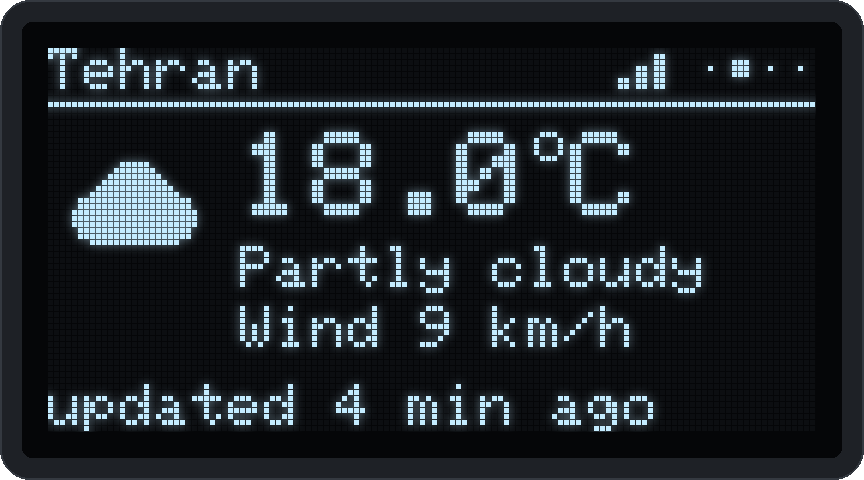
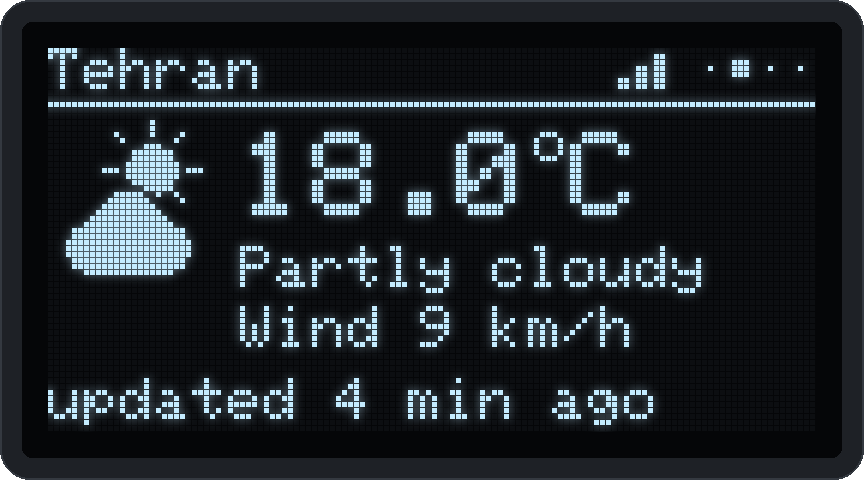
Update the host renderer for the new settings and redraw the screen images

diff --git a/tools/render/host/main.cpp b/tools/render/host/main.cpp
@@ -9,16 +9,16 @@
 
 #include "config.h"
 #include "screens.h"
+#include "settings.h"
 
 // ---------- Host replacements for the few Arduino/firmware functions used ----------
 
 static unsigned long gNowMs = 0;
 unsigned long millis() { return gNowMs; }
 
-// On the ESP32 this checks the GITHUB_TOKEN compiled in from secrets.h
-// (github.cpp). The renderer flips it to draw both GitHub states.
-static bool gHasToken = true;
-bool githubHasToken() { return gHasToken; }
+// On the ESP32, settings.cpp defines this and fills it from flash. Here it
+// keeps the defaults from config.h (GitHub user A2M33, Wokwi-GUEST).
+Settings settings;
 
 // ---------- Output ----------
 
@@ -111,6 +111,7 @@ int main(int argc, char** argv) {
   weather.tempC = 18.0f;
   weather.windKmh = 9.0f;
   weather.code = 2;
+  strlcpy(weather.place, "Tehran", sizeof(weather.place));  // the city the IP lookup would find
   weather.updatedAtMs = gNowMs - 4 * minute;
   status.screen = SCREEN_WEATHER;
   drawWeatherScreen(display, status, weather, gNowMs);
@@ -131,15 +132,12 @@ int main(int argc, char** argv) {
   fillGithub(github);
   github.updatedAtMs = gNowMs - 12 * minute;
   status.screen = SCREEN_GITHUB;
-  gHasToken = true;
   drawGithubScreen(display, status, github, gNowMs);
   ok &= writePbm(display, out, "github");
 
-  // GitHub before a token is set up.
-  GithubData empty;
-  gHasToken = false;
-  drawGithubScreen(display, status, empty, gNowMs);
-  ok &= writePbm(display, out, "github-no-token");
+  // The setup portal, open after holding the button for 5 seconds.
+  drawPortalScreen(display, PORTAL_AP_NAME);
+  ok &= writePbm(display, out, "portal");
 
   // Frames for the animated GIF (render.py --gif): one pass through the
   // rotation, with the clock ticking for a few seconds. rotation.txt lists
@@ -171,7 +169,6 @@ int main(int argc, char** argv) {
   drawRoomScreen(display, status, room, gNowMs);
   addFrame(2500);
   status.screen = SCREEN_GITHUB;
-  gHasToken = true;
   drawGithubScreen(display, status, github, gNowMs);
   addFrame(2500);
   fclose(list);

diff --git a/tools/render/host/HTTPClient.h b/tools/render/host/HTTPClient.h
@@ -1,11 +1,13 @@
 #pragma once
 
 // Lets weather.cpp compile on a desktop so the renderer uses its real
-// weatherText() and weatherIcon(). fetchWeather() is never called; if it were,
-// begin() fails and it returns false without touching the network.
+// weatherText() and weatherIcon(). fetchWeather() and lookupLocation() are
+// never called; if they were, begin() fails and they return false without
+// touching the network.
 
 #include <Arduino.h>
 
+#include "WiFi.h"
 #include "WiFiClientSecure.h"
 
 #define HTTP_CODE_OK 200
@@ -15,6 +17,7 @@ class HTTPClient {
   void useHTTP10(bool) {}
   void setConnectTimeout(int32_t) {}
   void setTimeout(uint16_t) {}
+  bool begin(WiFiClient&, const char*) { return false; }
   bool begin(WiFiClientSecure&, const char*) { return false; }
   int GET() { return -1; }
   void end() {}

diff --git a/tools/render/render.py b/tools/render/render.py
@@ -37,7 +37,7 @@ SCREENS = [
     ("weather", "Weather"),
     ("room", "Room"),
     ("github", "GitHub"),
-    ("github-no-token", None),
+    ("portal", None),
 ]
 
 # ---------- Look ----------
@@ -106,7 +106,7 @@ def build_and_run(cxx, gfx, json, work):
     # the images always show the default settings from config.h.
     src = work / "src"
     src.mkdir()
-    for name in ("config.h", "github.h", "room.h", "screens.h", "screens.cpp",
+    for name in ("config.h", "settings.h", "github.h", "room.h", "screens.h", "screens.cpp",
                  "weather.h", "weather.cpp"):
         shutil.copy2(SKETCH / name, src / name)
 

diff --git a/tools/render/host/WiFi.h b/tools/render/host/WiFi.h
@@ -1,0 +1,6 @@
+#pragma once
+
+// weather.cpp includes WiFi.h for the plain-HTTP WiFiClient used by the
+// location lookup. Nothing on the host ever connects; see HTTPClient.h.
+
+class WiFiClient {};

diff --git a/tools/render/README.md b/tools/render/README.md
@@ -4,7 +4,7 @@ Makes the screen images in `docs/` from the real drawing code, without an ESP32 
 
 `render.py` compiles `deskpal/screens.cpp` and `deskpal/weather.cpp` together with the Adafruit GFX library for your computer. A small fake `Adafruit_SSD1306` (in `host/`) draws into an in-memory 128x64 buffer instead of sending it to the screen, and `host/main.cpp` calls each `draw...Screen()` function with sample data and saves the result. The script then scales each frame up with an OLED look and writes:
 
-- `docs/screen-clock.png`, `screen-weather.png`, `screen-room.png`, `screen-github.png`, `screen-github-no-token.png`
+- `docs/screen-clock.png`, `screen-weather.png`, `screen-room.png`, `screen-github.png`, `screen-portal.png`
 - `docs/screens.png`, the four main screens in a 2x2 grid (used at the top of the main README)
 
 The sample data lives in `host/main.cpp`: 14:32 on Thursday 29 October 2026, 18 °C and partly cloudy in Tehran, 23.4 °C and 41 % in the room, and a made-up 13-week contribution grid.
@@ -37,6 +37,6 @@ Add `--gif` to also write `docs/rotation.gif`: one pass through the rotation at 
 
 ## Notes
 
-- The sketch files are copied before compiling, so your own `secrets.h` is never used. The images always show the defaults from `config.h` (Tehran, `@A2M33`).
-- `githubHasToken()` comes from `host/main.cpp` instead of `github.cpp`, so one run can draw the GitHub screen with and without a token. `github.cpp` itself is not compiled; it needs the real HTTP and Wi-Fi libraries.
+- The sketch files are copied before compiling, so your own `secrets.h` is never used. The images always show the defaults from `config.h` (`@A2M33`, 24-hour clock, °C). The weather title, Tehran, comes from the sample data, because on the device the city comes from the IP lookup.
+- `host/main.cpp` defines the `settings` object that `settings.cpp` provides on the ESP32. `github.cpp`, `settings.cpp`, `portal.cpp` and `deskpal.ino` are not compiled; they need the real Wi-Fi, HTTP, Preferences and WiFiManager libraries and FreeRTOS. `host/WiFi.h` and `host/HTTPClient.h` only exist so `weather.cpp` compiles.
 - If you change how a screen looks, run the script again and commit the new images with the code.

diff --git a/README.md b/README.md
@@ -124,6 +124,8 @@ Replace `COM3` with your port (`/dev/ttyUSB0` or similar on Linux and macOS).
 
 The portal lets you set up deskpal from your phone, without editing code.
 
+<img src="docs/screen-portal.png" alt="The setup screen: join the deskpal-setup Wi-Fi, then open 192.168.4.1" width="400">
+
 1. Hold the button for 5 seconds. The screen shows `Setup` and the name of a new Wi-Fi network, `deskpal-setup`.
 2. Join `deskpal-setup` on your phone or laptop. A setup page opens by itself on most phones. If it doesn't, open `192.168.4.1` in a browser.
 3. Tap **Configure WiFi**, pick your network and type its password.
